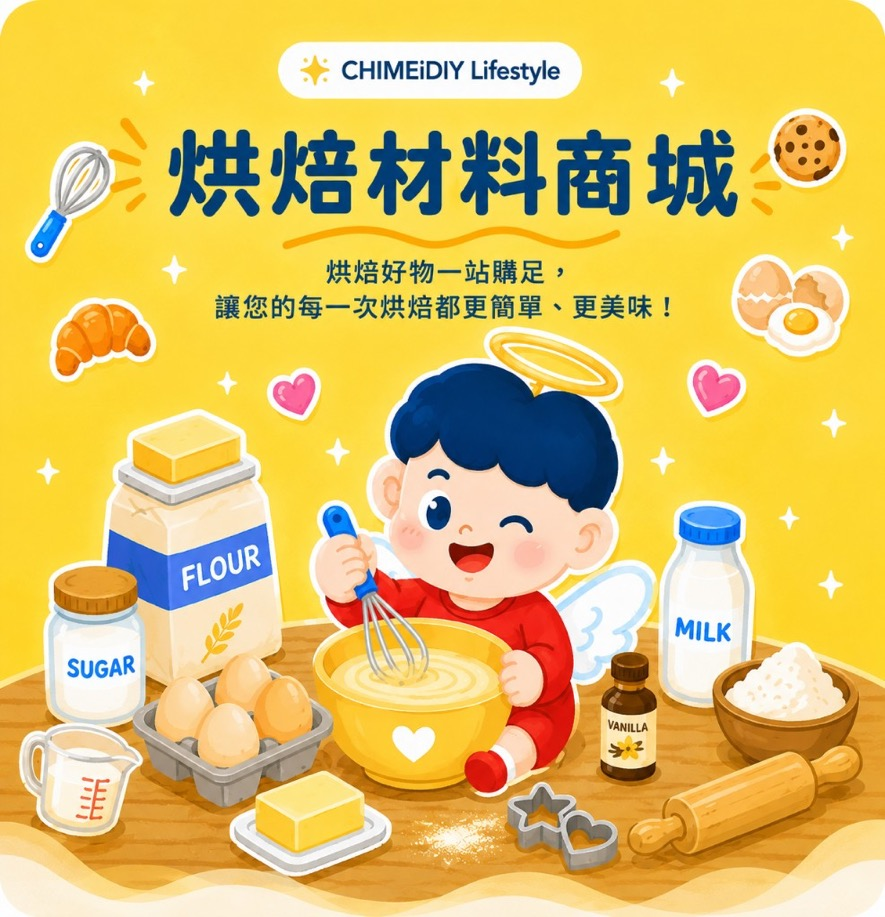
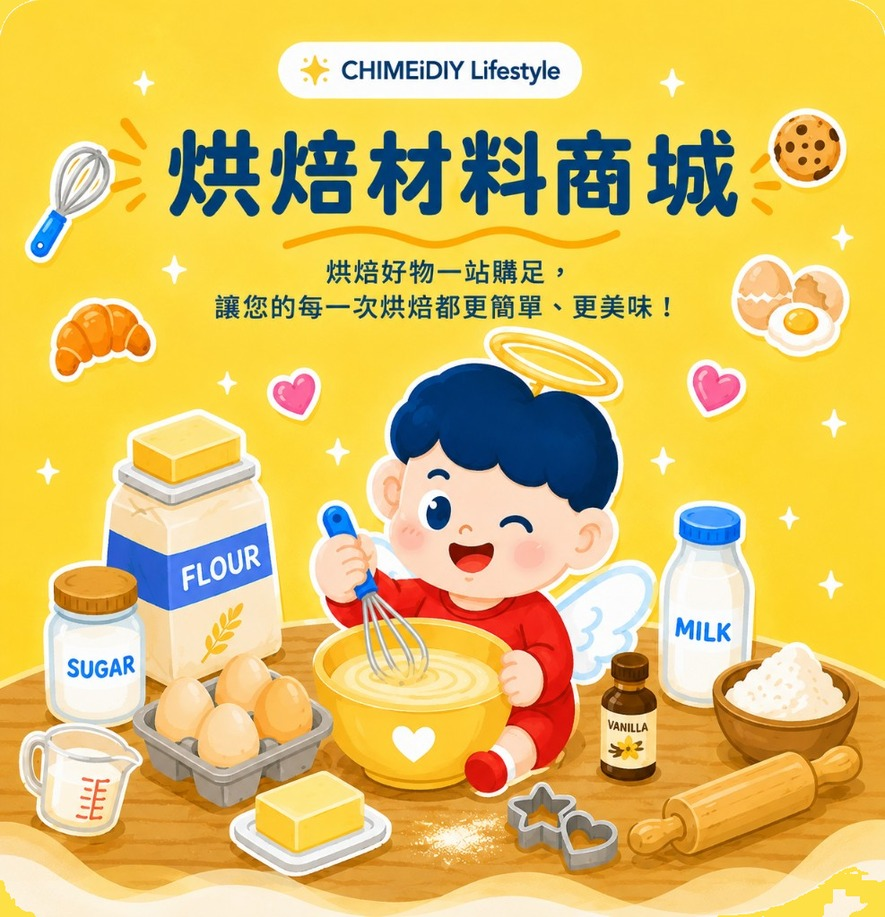
fix(shop): square mall hero corners for full-bleed display
Fill baked-in white rounded corners with brand yellow and keep the banner edge-to-edge without cropping.

diff --git a/src/types/shop-hero-banner.ts b/src/types/shop-hero-banner.ts
@@ -31,8 +31,8 @@ export const DEFAULT_SHOP_HERO_BANNERS: ShopHeroBanner[] = [
     title: "烘焙材料商城",
     alt_text: "烘焙材料商城 · 烘焙好物一站購足",
     subtitle: "烘焙好物一站購足，讓您的每一次烘焙都更簡單、更美味！",
-    desktop_image: "/images/shop/hero-desktop.jpg?v=20260802g",
-    mobile_image: "/images/shop/hero-mobile.jpg?v=20260802g",
+    desktop_image: "/images/shop/hero-desktop.jpg?v=20260802h",
+    mobile_image: "/images/shop/hero-mobile.jpg?v=20260802h",
     link: "/shop/categories",
     link_target: "_self",
     button_text: "探索更多好物",

diff --git a/src/app/globals.css b/src/app/globals.css
@@ -521,11 +521,19 @@
     background: #fde045;
   }
 
-  /* Keep shop hero art intrinsic — same as homepage full-bleed (no crop) */
+  /* Keep shop hero art intrinsic — full-bleed, square edges, no crop */
+  .shop-hero .home-hero-fullbleed,
+  .shop-hero .home-hero-fullbleed__img {
+    border-radius: 0 !important;
+  }
+
   .shop-hero .home-hero-fullbleed__img {
     width: 100%;
     height: auto;
     max-width: 100%;
+    object-fit: contain;
+    object-position: center top;
+    display: block;
   }
 
   /* Category — 15px gap under floating search (matches home search wrap rhythm) */
